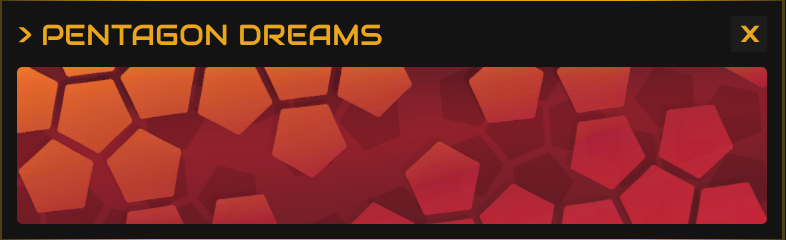
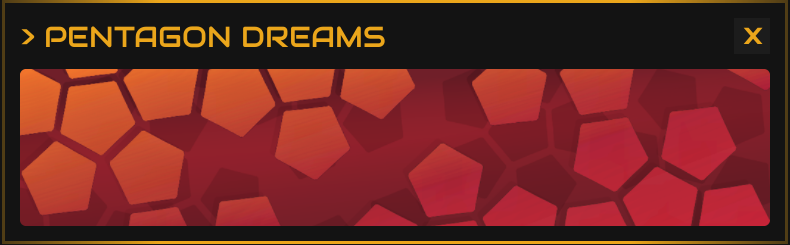
[1.2.4]
Added pentagon dreams

diff --git a/assets/js/version.js b/assets/js/version.js
@@ -11,4 +11,5 @@ document.addEventListener("DOMContentLoaded", () => {
 // window.version = "1.2.0"; // Javascript rearrangement. Removed every instance of a <script> tag and replaced them with specific .js files. Minor changes to gallery and shop, including rewriting styles to better fit mobile and smaller screens.
 // window.version = "1.2.1"; //  New Site Logo' -m 'Added a temporary favicon.
 // window.version = "1.2.2"; // Updated playercards/Childhood Memories.png May Heaven Grant You Fortune.png Rave.png & Safeguard.png. Added skins folder.
-window.version = "1.2.3"; // started work on letmeknow and wrongshop. added throwing knife gif. 
+// window.version = "1.2.3"; // started work on letmeknow and wrongshop. added throwing knife gif. 
+window.version = "1.2.4"; // added pentagon dreams
